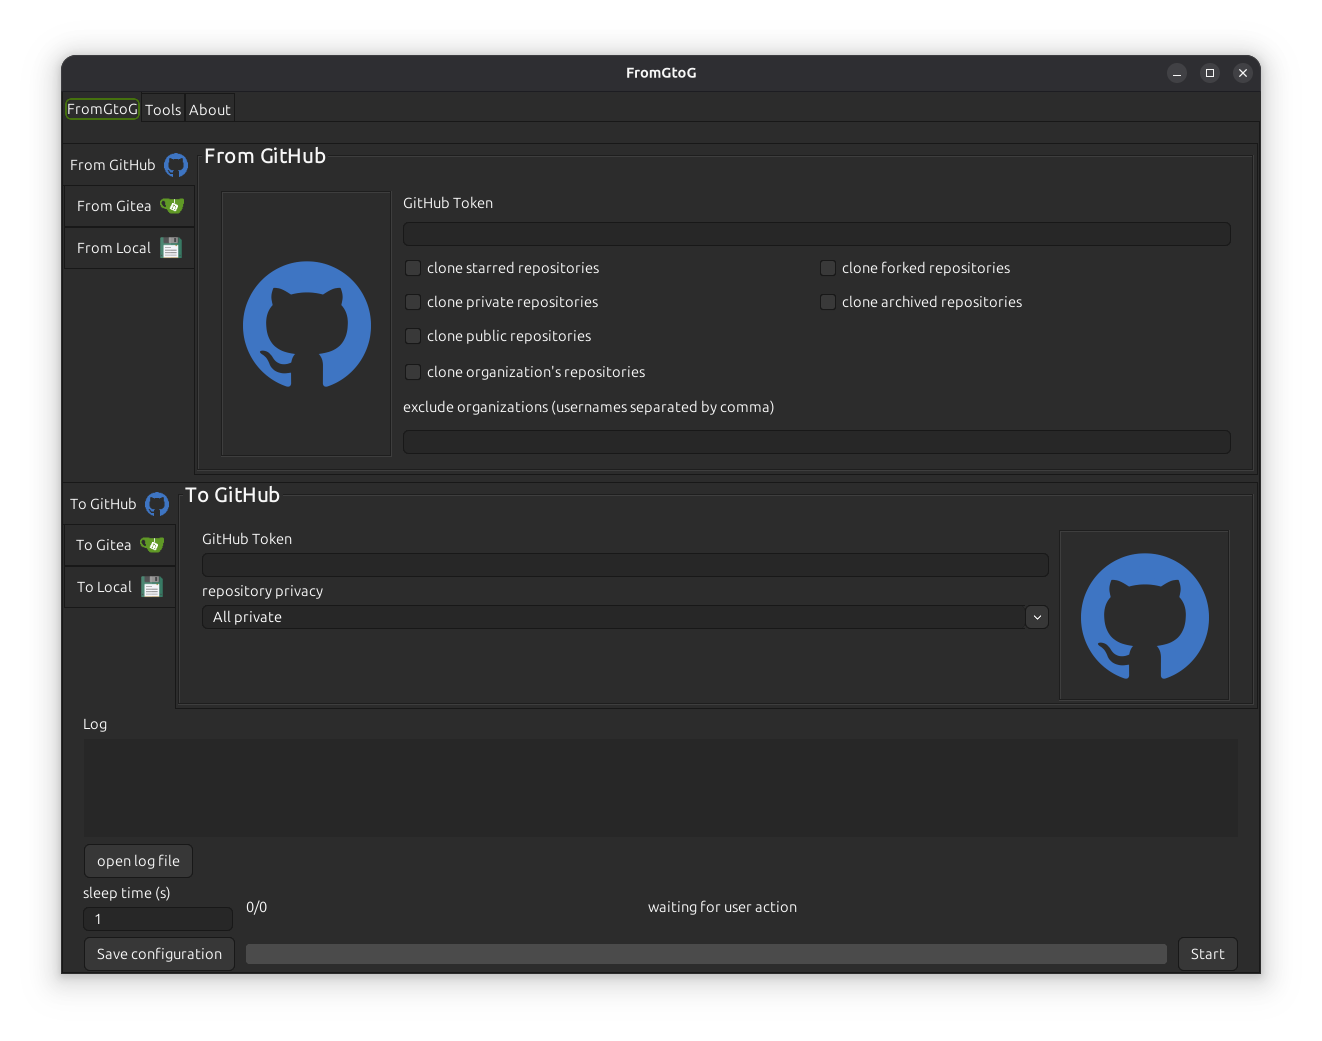
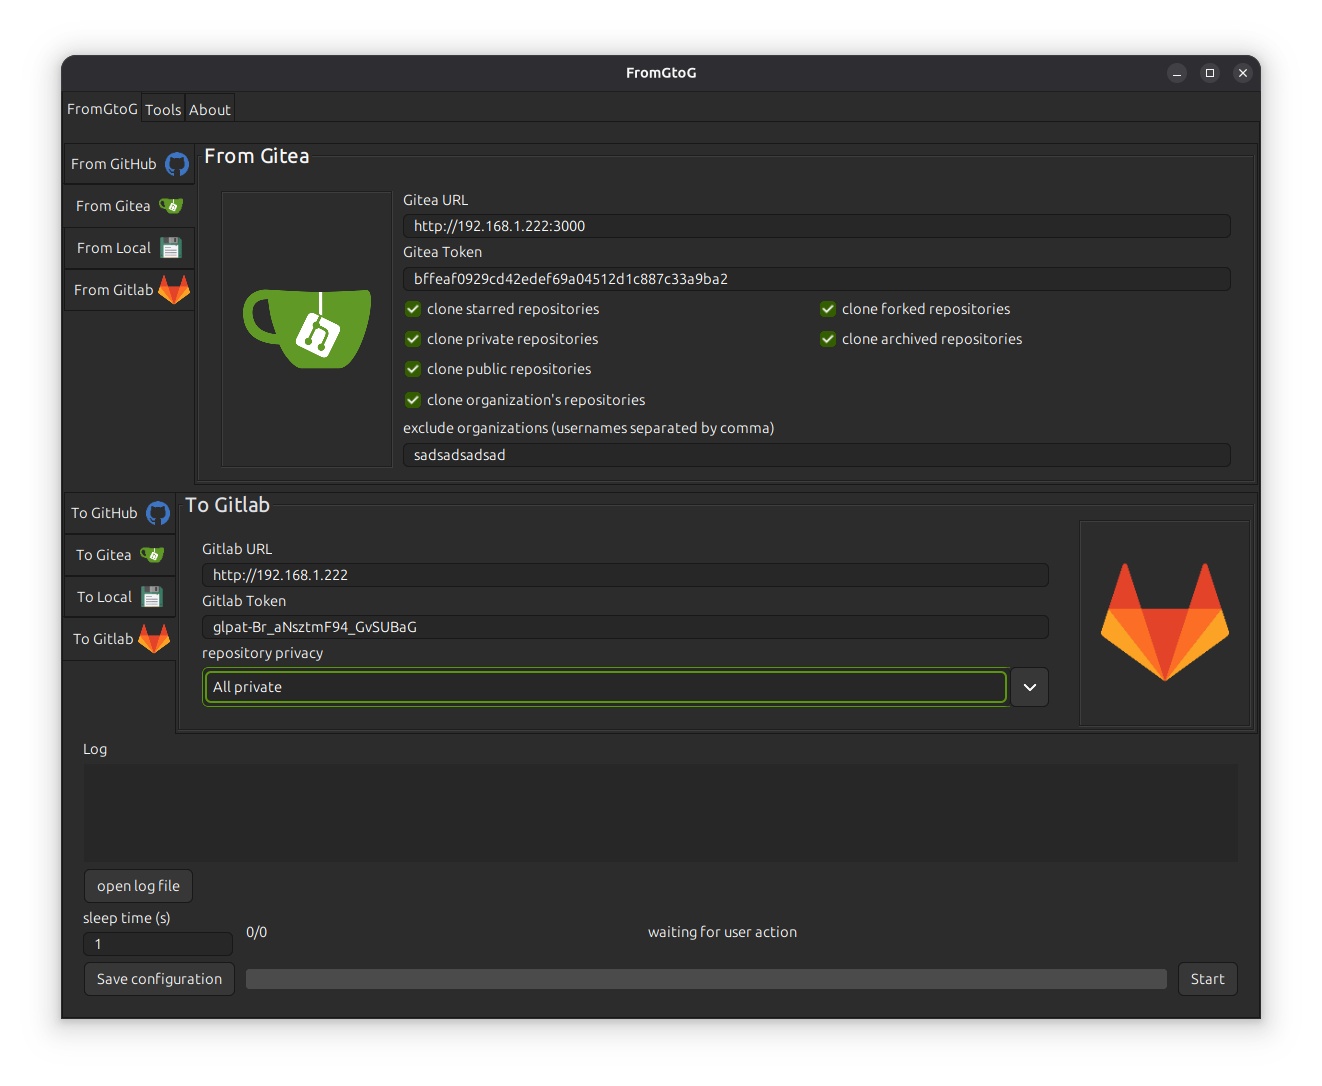
doc: update

diff --git a/README.md b/README.md
@@ -1,52 +1,42 @@
 <h1 align="center"><img src="images/fromgtog_header.png" alt="header" /></h1>
-<h1 align="right" id="title">FromGtoG v. 5.0.0 (WIP)</h1>
+<h1 align="right" id="title">FromGtoG v. 6.0</h1>
 
 ## Introduction
 
 A few days ago, I published FromGtoG 3.0 on the [Ubuntu Snap Store](https://snapcraft.io/fromgtog).
 Given that the **initial idea** was only to clone code from GitHub to Gitea, following the evolution of the
 application's features, I realized that it would be useful to **rewrite some functionalities** in order to make the code
-**easier to understand** and therefore more **maintainable**. So, I decided to implement **version 5.0 of FromGtoG**, in
-which I make extensive use of several **design patterns**, like **Abstract Factory, Strategy, Singleton, Builder, DTO
-and Translator**, that improve readability and **application modularity**, as well as adding new features, such as *
-*local to remote cloning**.
+**easier to understand** and therefore more **maintainable**. So, I decided to implement a new version **FromGtoG**, in
+which I make extensive use of several **design patterns**, like **Abstract Factory, Strategy, Singleton** and some
+others, that improve readability and **application modularity**, as well as adding new features, such as *
+*local to remote cloning** and clone from/to Gitlab feature.
 
-# Work in progress | TODOs
+# Currently the application is able to clone:
 
 - [x] `from GitHub` engine
     - [x] `to GitHub` engine
     - [x] `to Gitea` engine
     - [x] `to Local` engine
+    - [x] `to Gitlab` engine
 - [x] `from Gitea` engine
     - [x] `to GitHub` engine
     - [x] `to Gitea` engine
     - [x] `to Local` engine
+    - [x] `to Gitlab` engine
 - [x] `from Local` engine
     - [x] `to GitHub` engine
     - [x] `to Gitea` engine
     - [x] `to Local` engine
-
-- [x] error managing -> show error alert
-- [ ] validate user input -> show error alert
-
-# Which features are in this release?
-
-This release, in addition to having a more organized and therefore easily understandable code, provides the
-following features:
-
-- cloning from GitHub to GitHub
-- cloning from GitHub to Gitea
-- cloning from GitHub to Local
-- cloning from Gitea to GitHub
-- cloning from Gitea to Gitea
-- cloning from Gitea to Local
-- cloning from Local to GitHub
-- cloning from Local to Gitea
-- cloning from Local to Local (copies only git repositories)
+    - [x] `to Gitlab` engine
+- [x] `from Local` engine
+    - [x] `to GitHub` engine
+    - [x] `to Gitea` engine
+    - [x] `to Local` engine (copies only git repositories, other directories are skipped)
+    - [x] `to Gitlab` engine
 
 # Which features will NOT be present?
 
-This release, the version 5.0.0, unlike the previous one, the 3.0.X, **will not contain** the following features:
+This release **does not contain** the following features:
 
 - override destination repository if exists
 - delete source repository after cloning
